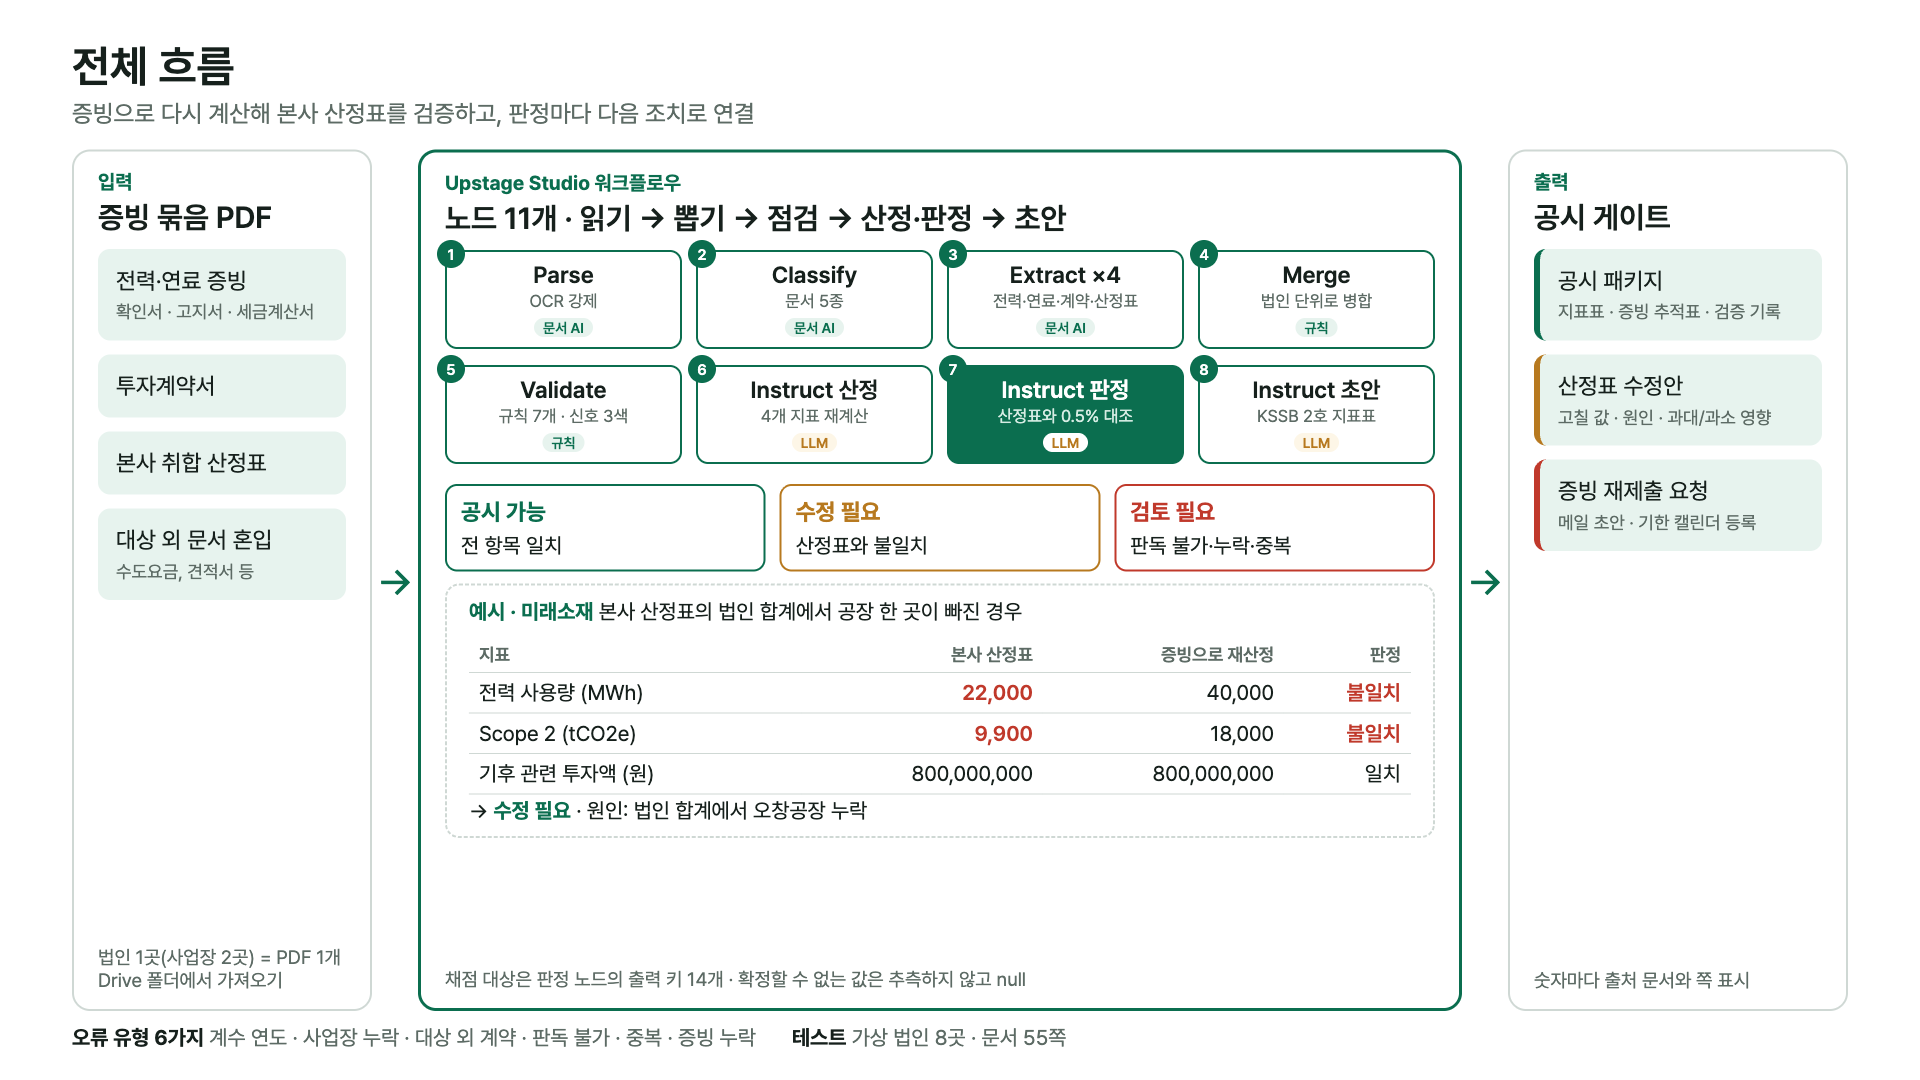
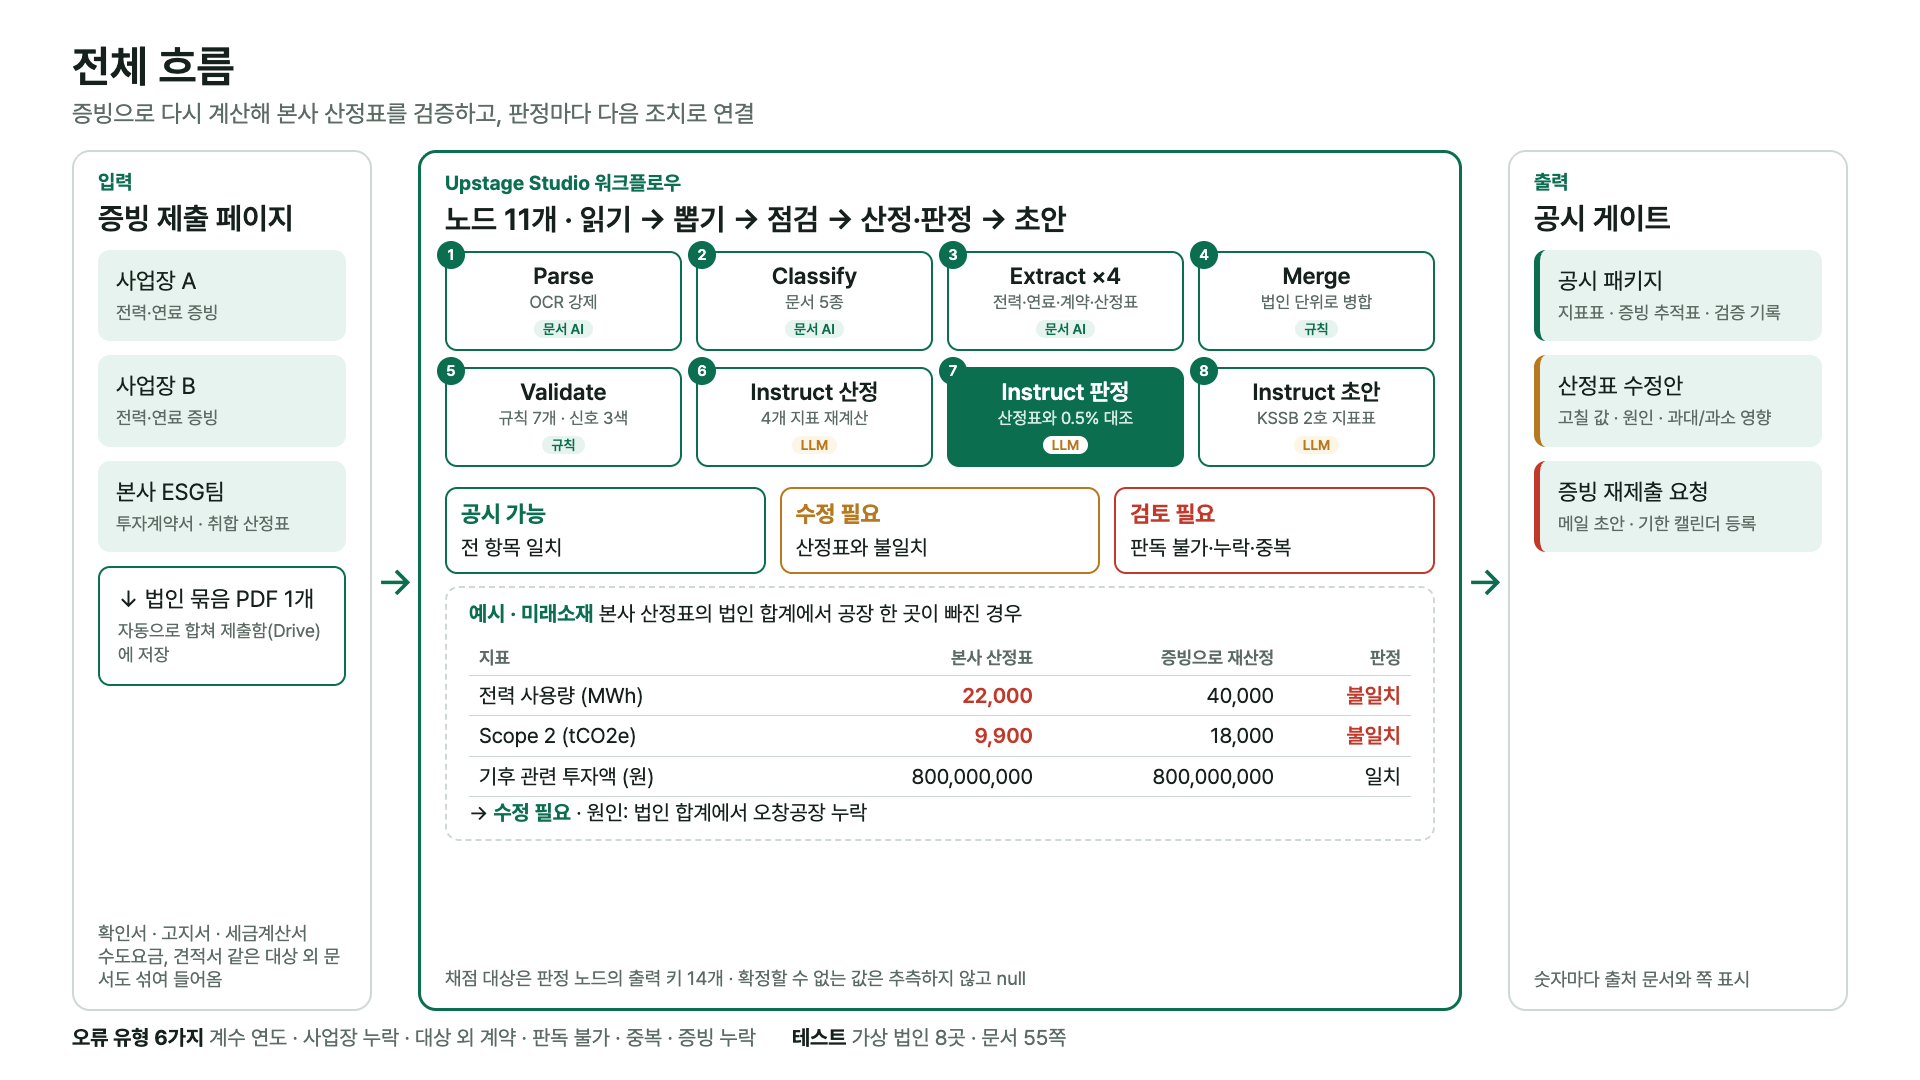
흐름 맨 앞에 증빙 제출 단계 추가

diff --git a/index.html b/index.html
@@ -112,16 +112,17 @@ footer{padding:36px 0 48px;color:var(--sub);font-size:13.5px;border-top:1px soli
 
 <section id="how" class="alt"><div class="w">
   <div class="kicker">CORE LOGIC &amp; WORKFLOW</div>
-  <h2>다섯 단계로 다시 계산합니다</h2>
+  <h2>제출부터 초안까지 여섯 단계</h2>
   <p class="h2sub">산정표의 숫자는 계산에 쓰지 않습니다. 증빙에서 뽑은 값으로만 산정한 뒤 비교하기 때문에, 틀린 곳과 틀린 이유를 함께 짚습니다.</p>
-  <div class="grid g5">
+  <div class="grid g3">
+    <div class="card"><div class="step">00</div><h3>제출</h3><p>사업장 두 곳과 본사 ESG팀이 각자 증빙을 올리면 법인 묶음 하나로 합쳐 제출함에 넣습니다.</p><span class="node"><a href="submit.html">증빙 제출 페이지</a></span></div>
     <div class="card"><div class="step">01</div><h3>읽기·나누기</h3><p>PDF를 한 장씩 나눠 전력, 연료, 계약서, 산정표, 대상 외 문서로 분류합니다.</p><span class="node">Parse · Classify</span></div>
     <div class="card"><div class="step">02</div><h3>뽑기</h3><p>사업장, 사용량, 단위, 문서번호, 금액, 판독 가능 여부를 추출합니다.</p><span class="node">Extract ×4</span></div>
     <div class="card"><div class="step">03</div><h3>점검</h3><p>판독 불가, 증빙 누락, 대상 외 계약을 규칙 7개로 검사해 신호를 냅니다.</p><span class="node">Merge · Validate</span></div>
     <div class="card"><div class="step">04</div><h3>산정·판정</h3><p>네 지표를 다시 계산하고 산정표와 0.5% 기준으로 대조합니다.</p><span class="node">Instruct ×2</span></div>
     <div class="card"><div class="step">05</div><h3>초안</h3><p>KSSB 2호 지표표와 검토 의견을 작성합니다.</p><span class="node">Instruct</span></div>
   </div>
-  <div class="frame" style="margin-top:26px"><img src="img/flow.png" alt="전체 흐름도: 증빙 묶음 PDF, Upstage Studio 워크플로우 11개 노드, 공시 게이트"></div>
+  <div class="frame" style="margin-top:26px"><img src="img/flow.png" alt="전체 흐름도: 사업장 A·B와 본사 ESG팀의 증빙 제출, Upstage Studio 워크플로우 11개 노드, 공시 게이트"></div>
 </div></section>
 
 <section><div class="w">

diff --git a/landing.html b/landing.html
@@ -112,16 +112,17 @@ footer{padding:36px 0 48px;color:var(--sub);font-size:13.5px;border-top:1px soli
 
 <section id="how" class="alt"><div class="w">
   <div class="kicker">CORE LOGIC &amp; WORKFLOW</div>
-  <h2>다섯 단계로 다시 계산합니다</h2>
+  <h2>제출부터 초안까지 여섯 단계</h2>
   <p class="h2sub">산정표의 숫자는 계산에 쓰지 않습니다. 증빙에서 뽑은 값으로만 산정한 뒤 비교하기 때문에, 틀린 곳과 틀린 이유를 함께 짚습니다.</p>
-  <div class="grid g5">
+  <div class="grid g3">
+    <div class="card"><div class="step">00</div><h3>제출</h3><p>사업장 두 곳과 본사 ESG팀이 각자 증빙을 올리면 법인 묶음 하나로 합쳐 제출함에 넣습니다.</p><span class="node"><a href="submit.html">증빙 제출 페이지</a></span></div>
     <div class="card"><div class="step">01</div><h3>읽기·나누기</h3><p>PDF를 한 장씩 나눠 전력, 연료, 계약서, 산정표, 대상 외 문서로 분류합니다.</p><span class="node">Parse · Classify</span></div>
     <div class="card"><div class="step">02</div><h3>뽑기</h3><p>사업장, 사용량, 단위, 문서번호, 금액, 판독 가능 여부를 추출합니다.</p><span class="node">Extract ×4</span></div>
     <div class="card"><div class="step">03</div><h3>점검</h3><p>판독 불가, 증빙 누락, 대상 외 계약을 규칙 7개로 검사해 신호를 냅니다.</p><span class="node">Merge · Validate</span></div>
     <div class="card"><div class="step">04</div><h3>산정·판정</h3><p>네 지표를 다시 계산하고 산정표와 0.5% 기준으로 대조합니다.</p><span class="node">Instruct ×2</span></div>
     <div class="card"><div class="step">05</div><h3>초안</h3><p>KSSB 2호 지표표와 검토 의견을 작성합니다.</p><span class="node">Instruct</span></div>
   </div>
-  <div class="frame" style="margin-top:26px"><img src="img/flow.png" alt="전체 흐름도: 증빙 묶음 PDF, Upstage Studio 워크플로우 11개 노드, 공시 게이트"></div>
+  <div class="frame" style="margin-top:26px"><img src="img/flow.png" alt="전체 흐름도: 사업장 A·B와 본사 ESG팀의 증빙 제출, Upstage Studio 워크플로우 11개 노드, 공시 게이트"></div>
 </div></section>
 
 <section><div class="w">
